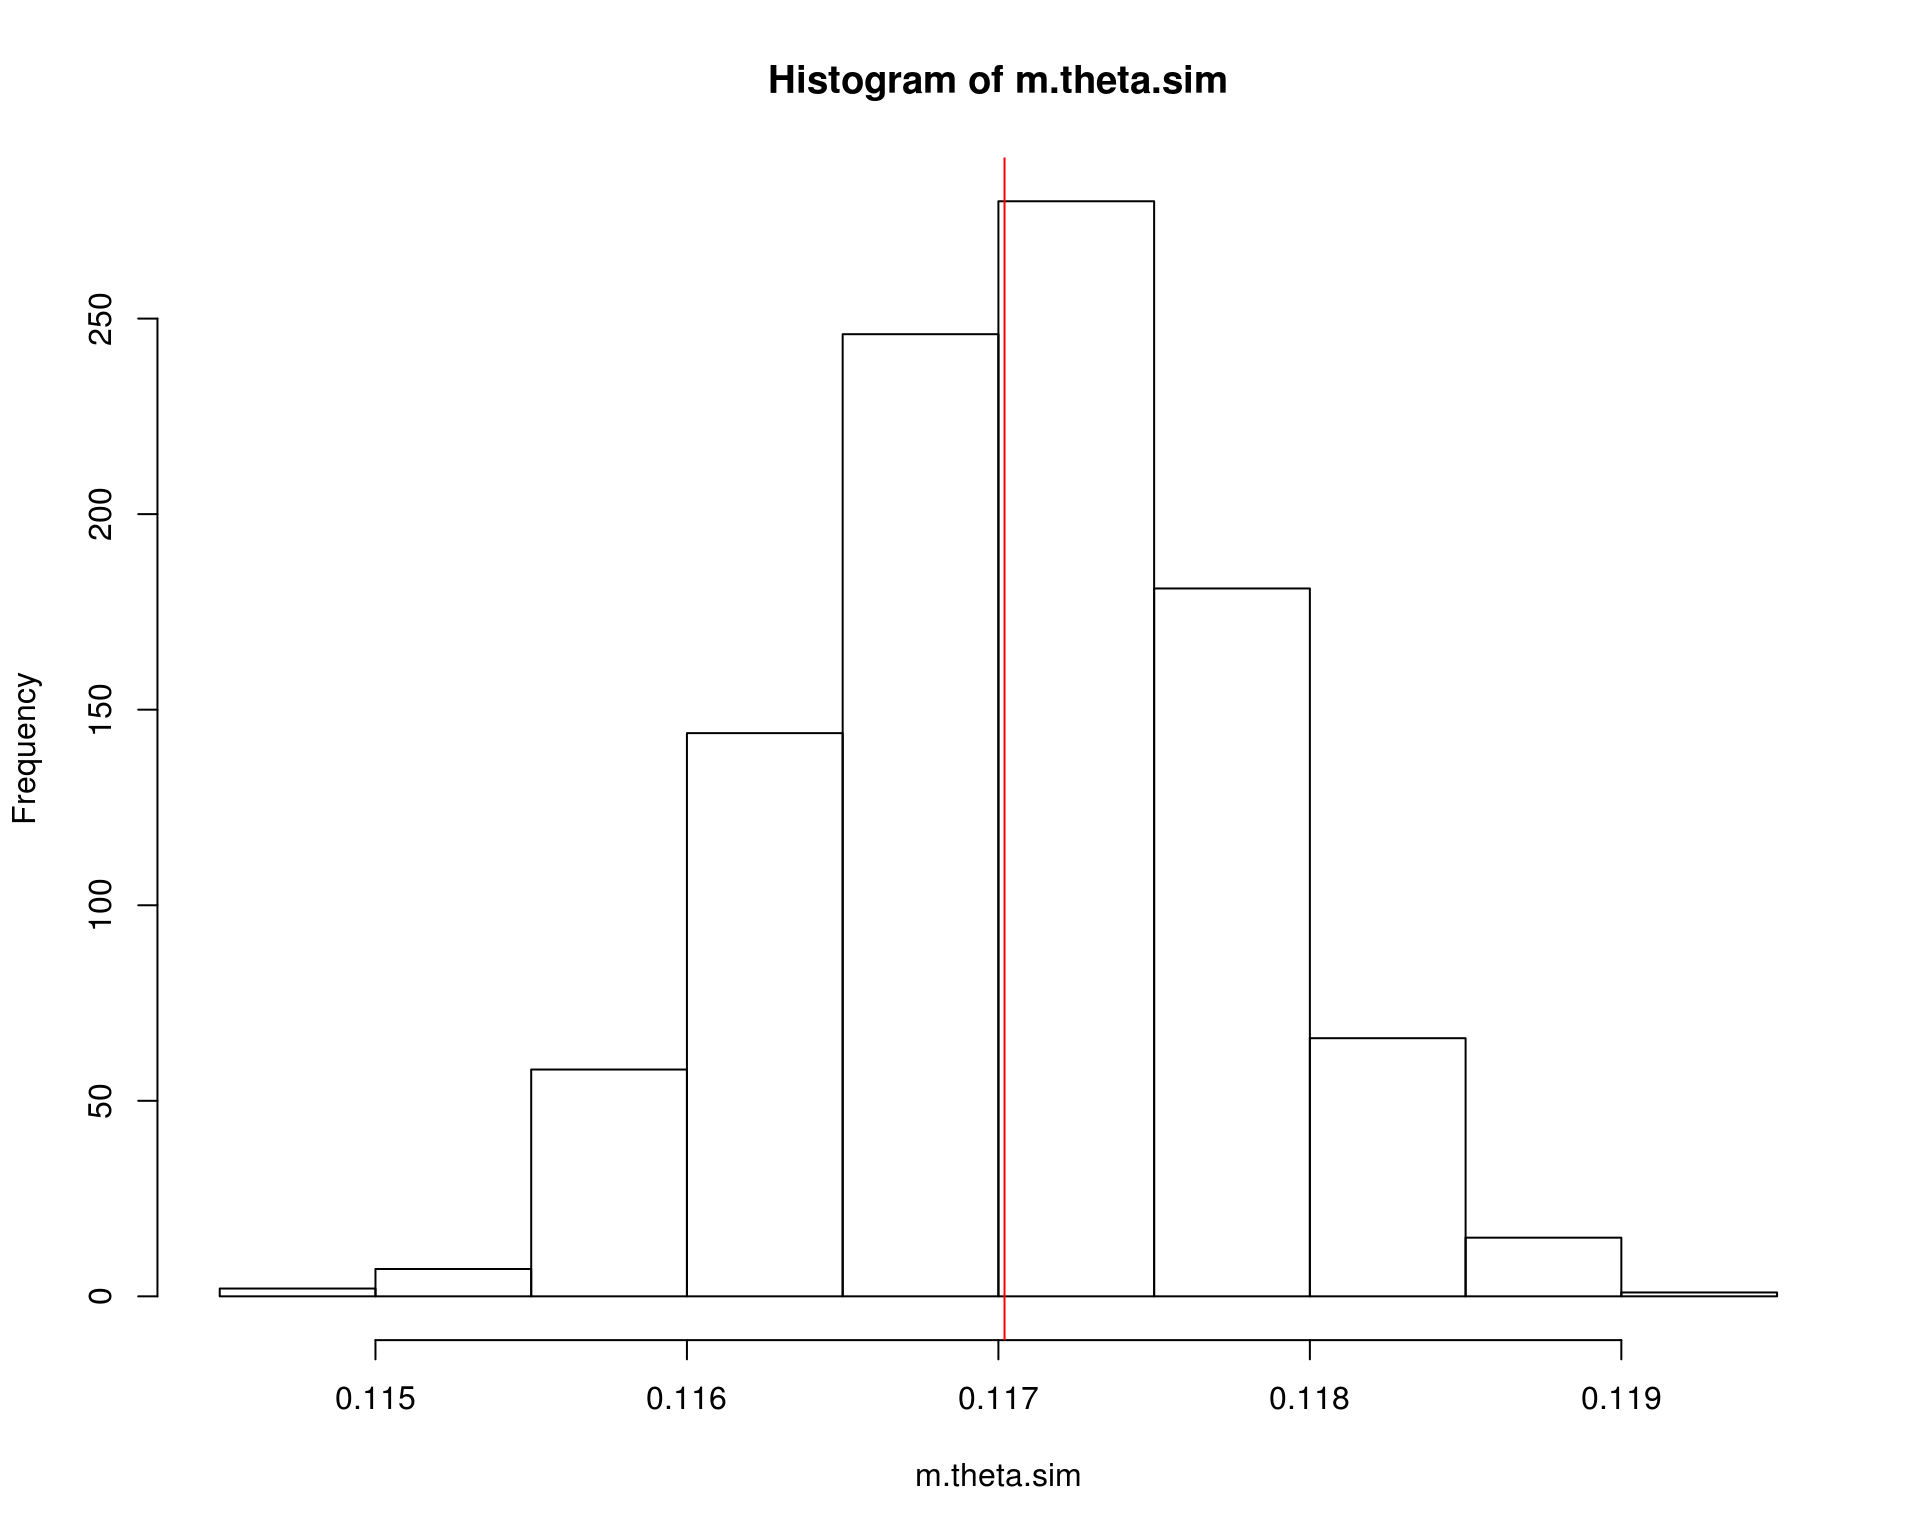
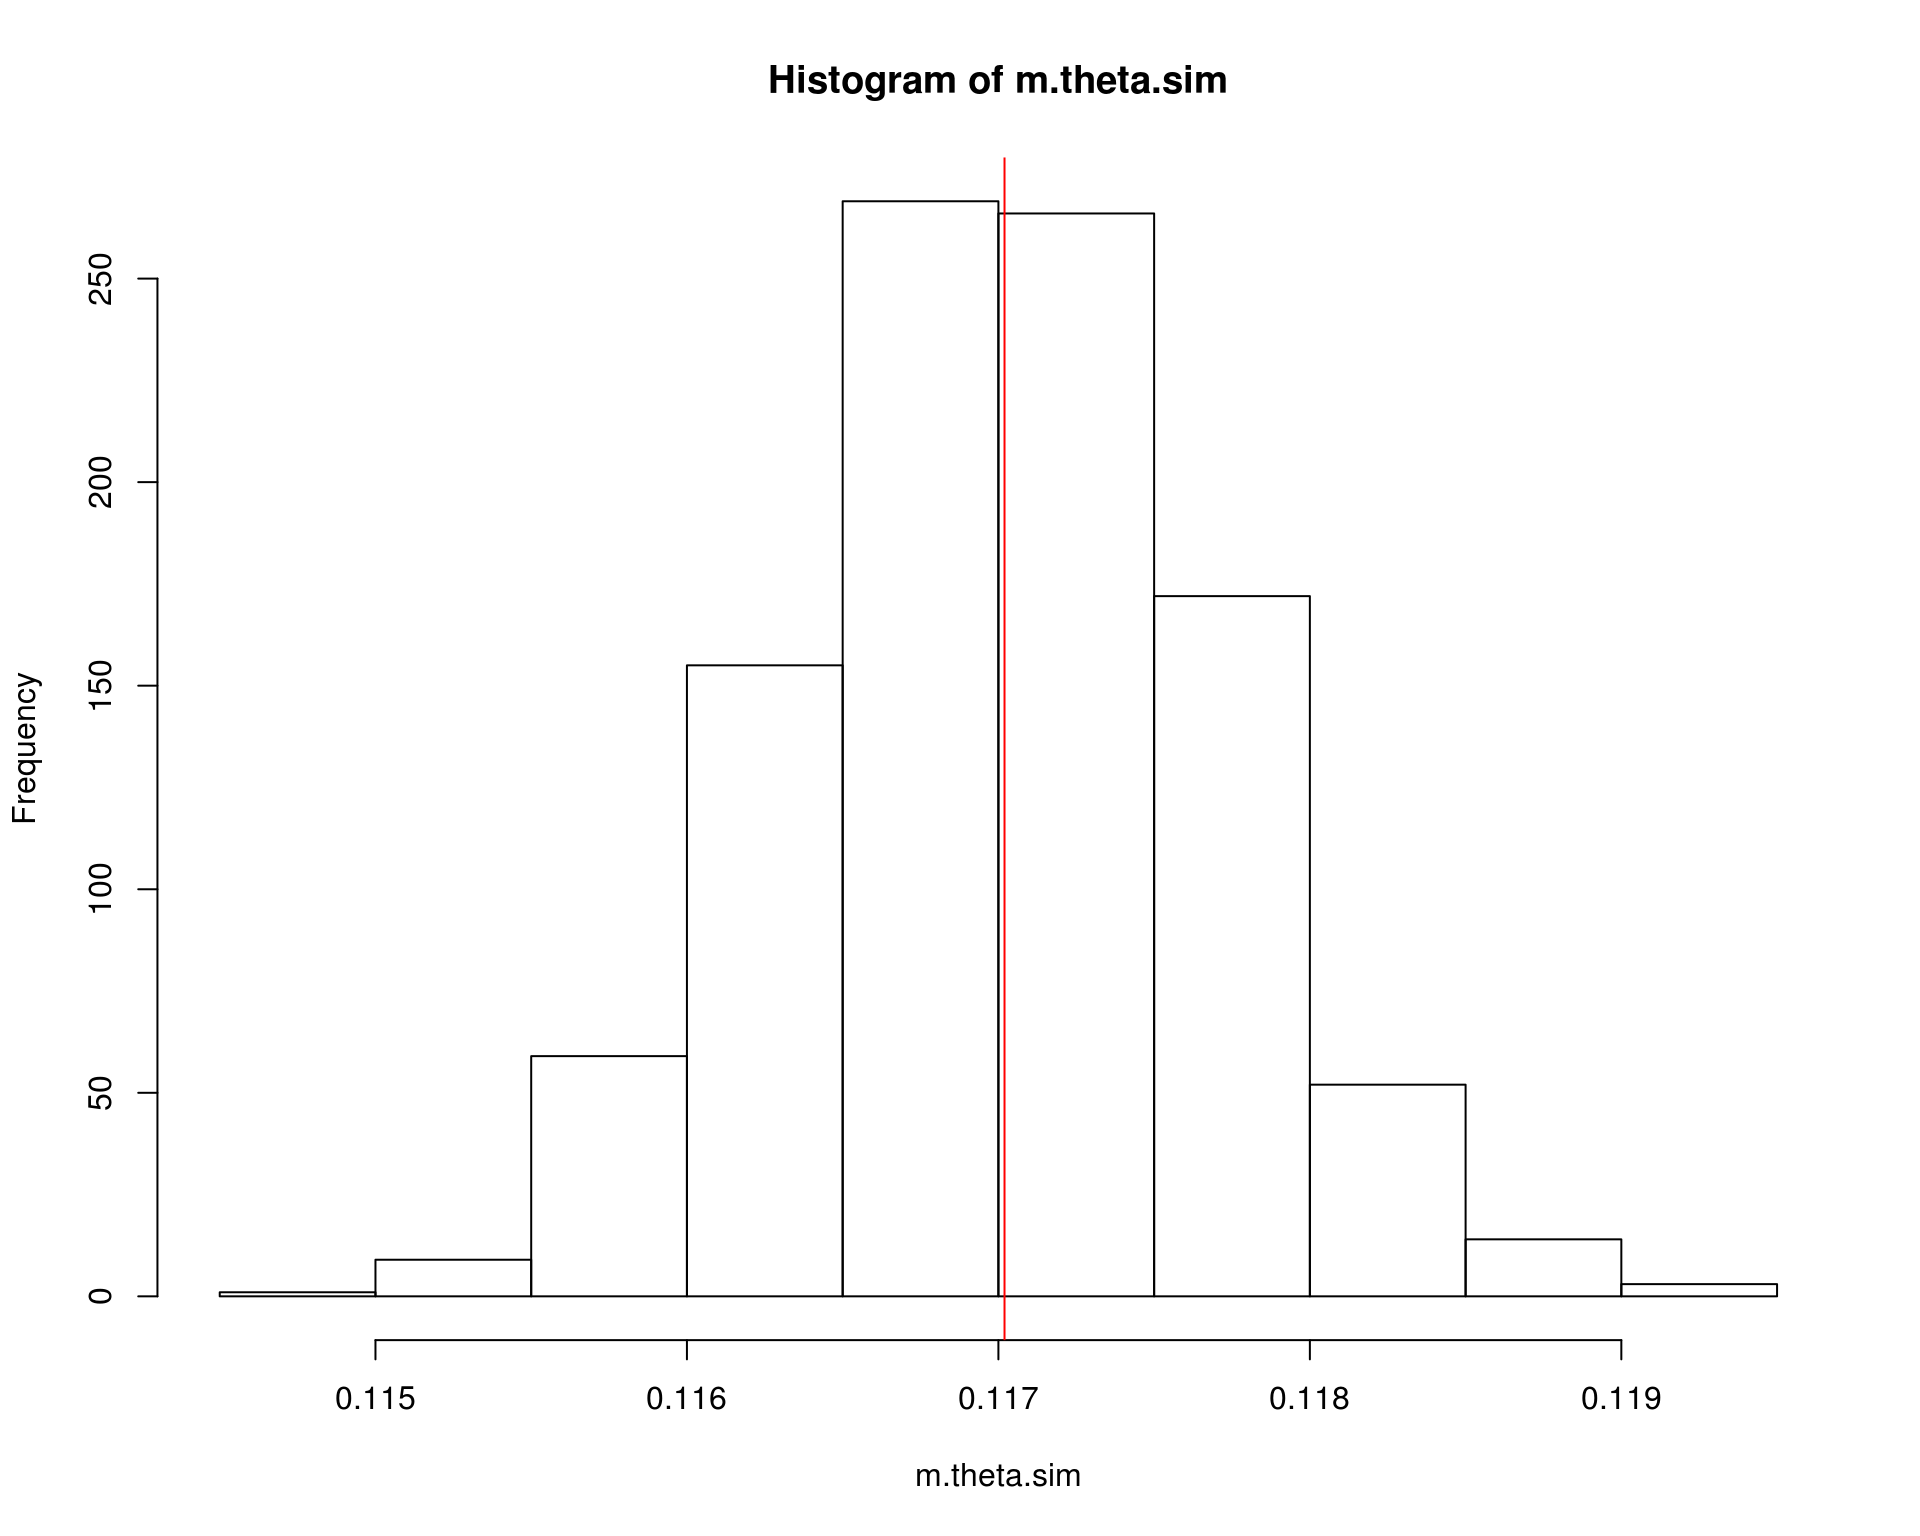
The site is alive.

diff --git a/MC_intro.html b/MC_intro.html
@@ -553,7 +553,7 @@ P(\lim_{n \to \infty} |\bar{X}_n - \mu| &lt; \epsilon) = 1
 <a class="sourceLine" id="cb1-5" title="5">theta.hat &lt;-<span class="st"> </span><span class="kw">exp</span>(<span class="op">-</span>x)</a>
 <a class="sourceLine" id="cb1-6" title="6"><span class="co">## Calcula a média</span></a>
 <a class="sourceLine" id="cb1-7" title="7">(m.theta.hat &lt;-<span class="st"> </span><span class="kw">sum</span>(theta.hat)<span class="op">/</span>m)</a>
-<a class="sourceLine" id="cb1-8" title="8"><span class="co"># [1] 0.6354779</span></a></code></pre></div>
+<a class="sourceLine" id="cb1-8" title="8"><span class="co"># [1] 0.6322756</span></a></code></pre></div>
 <p>Nesse caso, podemos obter a solução analítica e integração numérica no R para comparar as estimativas</p>
 <div class="sourceCode" id="cb2"><pre class="sourceCode r"><code class="sourceCode r"><a class="sourceLine" id="cb2-1" title="1"><span class="co">## Solução analítica</span></a>
 <a class="sourceLine" id="cb2-2" title="2">(theta &lt;-<span class="st"> </span><span class="dv">1</span> <span class="op">-</span><span class="st"> </span><span class="kw">exp</span>(<span class="op">-</span><span class="dv">1</span>))</a>
@@ -593,7 +593,7 @@ P(\lim_{n \to \infty} |\bar{X}_n - \mu| &lt; \epsilon) = 1
 <a class="sourceLine" id="cb3-6" title="6">theta.hat &lt;-<span class="st"> </span><span class="kw">exp</span>(<span class="op">-</span>x)</a>
 <a class="sourceLine" id="cb3-7" title="7"><span class="co">## Calcula a média * (b - a)</span></a>
 <a class="sourceLine" id="cb3-8" title="8">(m.theta.hat &lt;-<span class="st"> </span>(<span class="kw">sum</span>(theta.hat)<span class="op">/</span>m) <span class="op">*</span><span class="st"> </span>(b <span class="op">-</span><span class="st"> </span>a))</a>
-<a class="sourceLine" id="cb3-9" title="9"><span class="co"># [1] 0.1159801</span></a></code></pre></div>
+<a class="sourceLine" id="cb3-9" title="9"><span class="co"># [1] 0.1160224</span></a></code></pre></div>
 <p>Nesse caso, podemos obter a solução analítica e integração numérica no R para comparar as estimativas</p>
 <div class="sourceCode" id="cb4"><pre class="sourceCode r"><code class="sourceCode r"><a class="sourceLine" id="cb4-1" title="1"><span class="co">## Solução analítica</span></a>
 <a class="sourceLine" id="cb4-2" title="2">(theta &lt;-<span class="st"> </span><span class="kw">exp</span>(<span class="op">-</span><span class="dv">2</span>) <span class="op">-</span><span class="st"> </span><span class="kw">exp</span>(<span class="op">-</span><span class="dv">4</span>))</a>
@@ -614,7 +614,7 @@ P[X&gt;2] = \int_2^{\infty} e^{-x} dx
 <a class="sourceLine" id="cb5-5" title="5">theta.hat2 &lt;-<span class="st"> </span><span class="kw">exp</span>(<span class="op">-</span>x2)</a>
 <a class="sourceLine" id="cb5-6" title="6"><span class="co">## Calcula a média * (b - a)</span></a>
 <a class="sourceLine" id="cb5-7" title="7">(m.theta.hat2 &lt;-<span class="st"> </span>(<span class="kw">sum</span>(theta.hat2)<span class="op">/</span>m) <span class="op">*</span><span class="st"> </span>(<span class="fl">1e5</span> <span class="op">-</span><span class="st"> </span><span class="dv">2</span>))</a>
-<a class="sourceLine" id="cb5-8" title="8"><span class="co"># [1] 0.0001960599</span></a>
+<a class="sourceLine" id="cb5-8" title="8"><span class="co"># [1] 0.0006736957</span></a>
 <a class="sourceLine" id="cb5-9" title="9"><span class="co">## Solução analítica</span></a>
 <a class="sourceLine" id="cb5-10" title="10">(theta2 &lt;-<span class="st"> </span><span class="kw">exp</span>(<span class="op">-</span><span class="dv">2</span>) <span class="op">-</span><span class="st"> </span><span class="kw">exp</span>(<span class="op">-</span><span class="fl">1e5</span>))</a>
 <a class="sourceLine" id="cb5-11" title="11"><span class="co"># [1] 0.1353353</span></a>
@@ -635,17 +635,17 @@ P[X&gt;2] = \int_2^{\infty} e^{-x} dx
 \]</span></p>
 <p>Seguindo o exemplo anterior, vimos que a estimativa da integral é</p>
 <div class="sourceCode" id="cb6"><pre class="sourceCode r"><code class="sourceCode r"><a class="sourceLine" id="cb6-1" title="1">m.theta.hat</a>
-<a class="sourceLine" id="cb6-2" title="2"><span class="co"># [1] 0.1159801</span></a></code></pre></div>
+<a class="sourceLine" id="cb6-2" title="2"><span class="co"># [1] 0.1160224</span></a></code></pre></div>
 <p>Mas veja que existe uma distribuição de valores para compor esta estimativa média</p>
 <div class="sourceCode" id="cb7"><pre class="sourceCode r"><code class="sourceCode r"><a class="sourceLine" id="cb7-1" title="1"><span class="kw">hist</span>(theta.hat); <span class="kw">abline</span>(<span class="dt">v =</span> theta, <span class="dt">col =</span> <span class="dv">2</span>)</a></code></pre></div>
 <p><img src="figures/MC_intro/unnamed-chunk-9-1.png" width="80%" style="display: block; margin: auto;" /></p>
 <p>A variância relacionada ao estimador pode então ser calculada como</p>
 <div class="sourceCode" id="cb8"><pre class="sourceCode r"><code class="sourceCode r"><a class="sourceLine" id="cb8-1" title="1"><span class="co">## Variancia</span></a>
 <a class="sourceLine" id="cb8-2" title="2">(v.theta.hat &lt;-<span class="st"> </span><span class="kw">sum</span>((theta.hat <span class="op">-</span><span class="st"> </span>m.theta.hat)<span class="op">^</span><span class="dv">2</span>)<span class="op">/</span>m<span class="op">^</span><span class="dv">2</span>)</a>
-<a class="sourceLine" id="cb8-3" title="3"><span class="co"># [1] 4.411394e-07</span></a>
+<a class="sourceLine" id="cb8-3" title="3"><span class="co"># [1] 4.431714e-07</span></a>
 <a class="sourceLine" id="cb8-4" title="4"><span class="co">## Erro padrão</span></a>
 <a class="sourceLine" id="cb8-5" title="5">(se.theta.hat &lt;-<span class="st"> </span><span class="kw">sqrt</span>(v.theta.hat))</a>
-<a class="sourceLine" id="cb8-6" title="6"><span class="co"># [1] 0.0006641833</span></a></code></pre></div>
+<a class="sourceLine" id="cb8-6" title="6"><span class="co"># [1] 0.0006657112</span></a></code></pre></div>
 <p>Pelo Teorema do Limite Central, temos que</p>
 <p><span class="math display">\[
 \frac{\hat\theta - \text{E}(\hat\theta)}{\sqrt{\hat{V}(\hat\theta)}}
@@ -659,10 +659,10 @@ P[X&gt;2] = \int_2^{\infty} e^{-x} dx
 <p>Com esse resultado, podemos inclusive fornecer um intervalo de confiança associado à nossa estimativa</p>
 <div class="sourceCode" id="cb10"><pre class="sourceCode r"><code class="sourceCode r"><a class="sourceLine" id="cb10-1" title="1"><span class="co">## Media e veriancia</span></a>
 <a class="sourceLine" id="cb10-2" title="2"><span class="kw">c</span>(m.theta.hat, v.theta.hat)</a>
-<a class="sourceLine" id="cb10-3" title="3"><span class="co"># [1] 1.159801e-01 4.411394e-07</span></a>
+<a class="sourceLine" id="cb10-3" title="3"><span class="co"># [1] 1.160224e-01 4.431714e-07</span></a>
 <a class="sourceLine" id="cb10-4" title="4"><span class="co">## Intervalo de confiança (95%)</span></a>
 <a class="sourceLine" id="cb10-5" title="5"><span class="kw">c</span>(m.theta.hat <span class="op">-</span><span class="st"> </span><span class="fl">1.96</span> <span class="op">*</span><span class="st"> </span>se.theta.hat, m.theta.hat <span class="op">+</span><span class="st"> </span><span class="fl">1.96</span> <span class="op">*</span><span class="st"> </span>se.theta.hat)</a>
-<a class="sourceLine" id="cb10-6" title="6"><span class="co"># [1] 0.1146783 0.1172819</span></a></code></pre></div>
+<a class="sourceLine" id="cb10-6" title="6"><span class="co"># [1] 0.1147176 0.1173271</span></a></code></pre></div>
 <p>Veja que assintoticamente, i.e., conforme aumentamos o tamanho da amostra, o valor da integral se aproxima cada vez mais do valor verdadeiro (que nesse caso sabemos calcular analiticamente, apenas para comparação).</p>
 <div class="sourceCode" id="cb11"><pre class="sourceCode r"><code class="sourceCode r"><a class="sourceLine" id="cb11-1" title="1"><span class="co">## Simula a convergência para o verdadeiro valor conforme aumenta o</span></a>
 <a class="sourceLine" id="cb11-2" title="2"><span class="co">## tamanho da amostra</span></a>

diff --git a/aulas.html b/aulas.html
@@ -336,9 +336,10 @@ $(document).ready(function () {
 <li><strong>10/10 (Qui)</strong>: (PJ) Decisão bayesiana. Resumos da posteriori. (Cap 5)</li>
 <li><strong>15/10 (Ter)</strong>: (PJ) Predição - obtenção da distribuição preditiva (Cap 6)</li>
 <li><strong>17/10 (Qui)</strong>: (FM) Integração de Monte Carlo: método simples e amostragem por importância. <a href="MC_intro.html">HTML</a>.</li>
-<li><strong>22/10 (Ter)</strong>:</li>
+<li><strong>22/10 (Ter)</strong>: (PJ) Inferência por simulação. Resumos da posteriori e preditiva. Introdução mas métodos de simulação da posteriori e ao MCMC<br />
+</li>
 <li><strong>24/10 (Qui)</strong>: (FM) Método de aceitação-rejeição. MCMC: Metropolis-Hastings e Metropolis random walk. <a href="MCMC-1.html">HTML</a>.</li>
-<li><strong>29/10 (Ter)</strong>:</li>
+<li><strong>29/10 (Ter)</strong>: (PJ) Modelos com múltiplos parâmetros. Cap 4 da apostila e exercícios.</li>
 <li><strong>31/10 (Qui)</strong>: (FM) Método geral de Metropolis-Hastings. <a href="MCMC-2.html">HTML</a>. Exemplo de amostrador de Gibbs. <a href="scripts/gibbs_aula1.R">Script</a>.</li>
 <li><strong>05/11 (Ter)</strong>:</li>
 <li><strong>07/11 (Qui)</strong>:</li>
